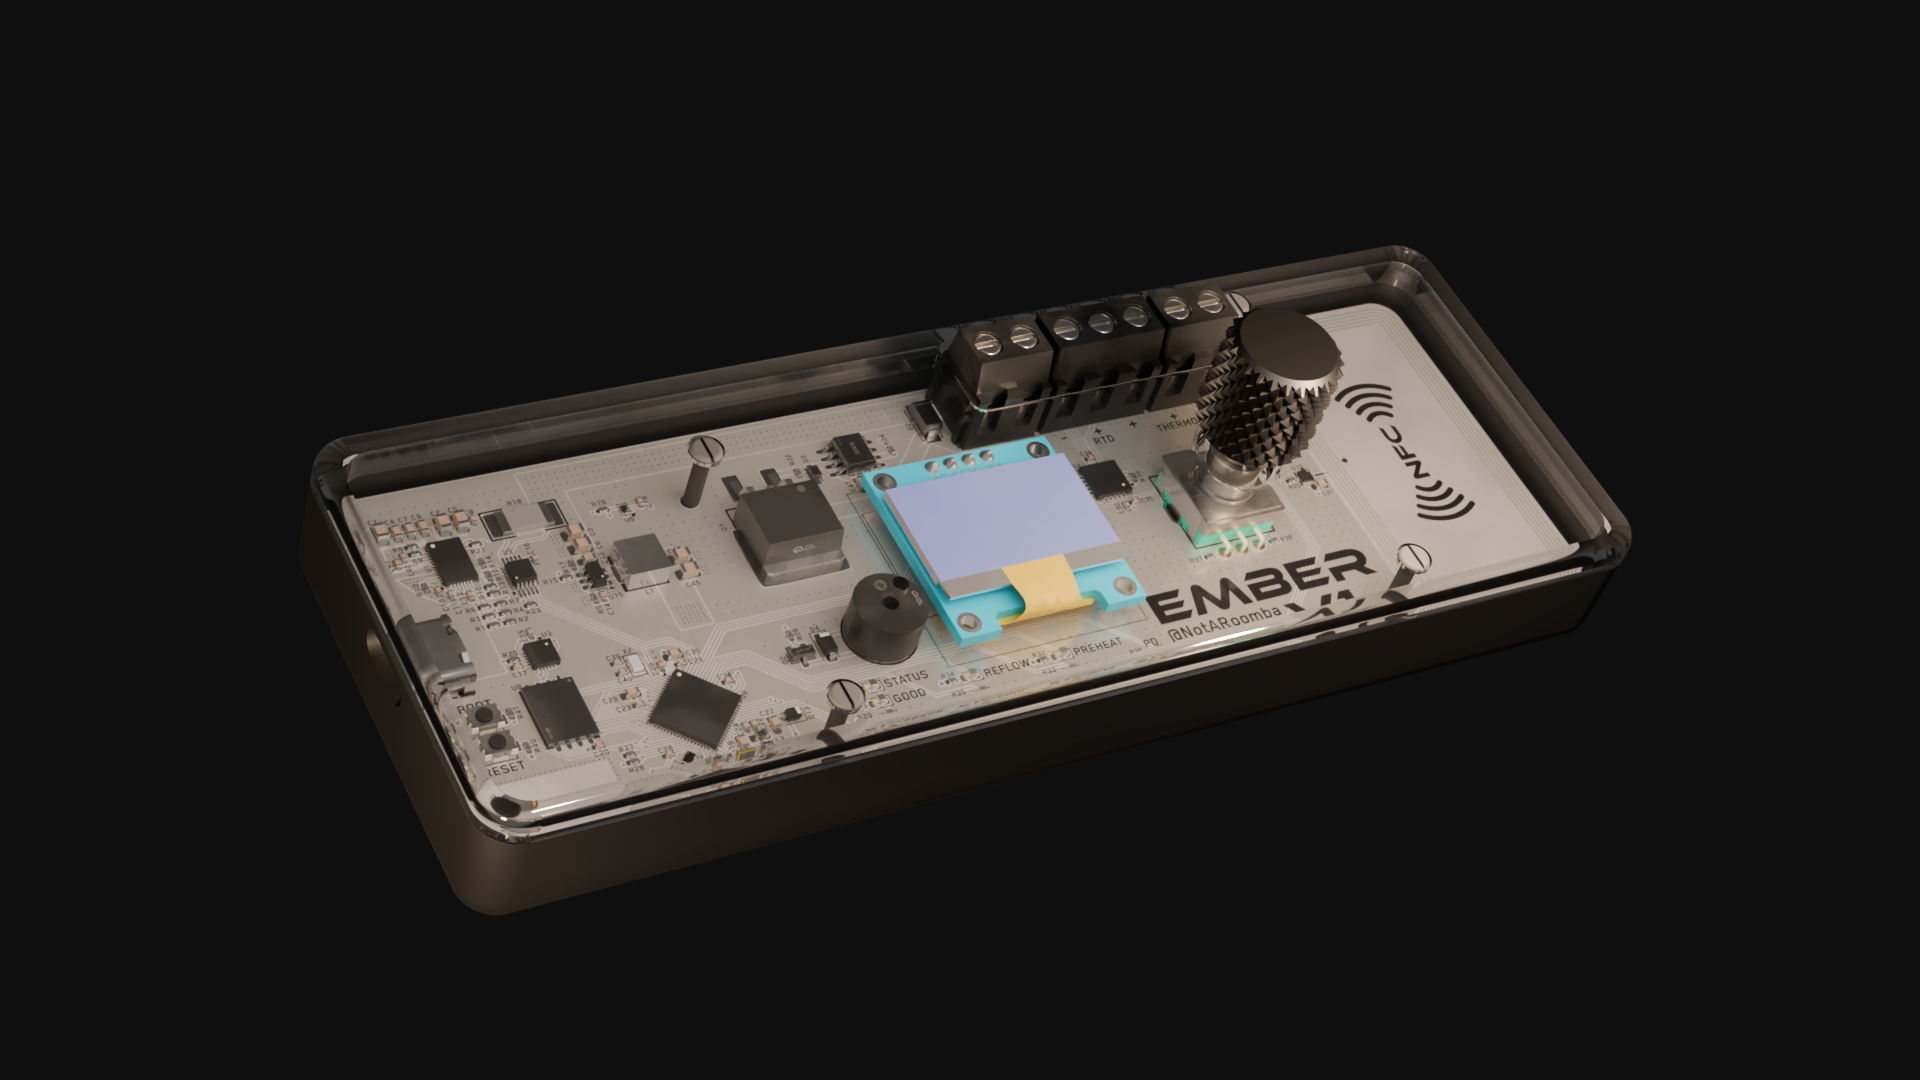
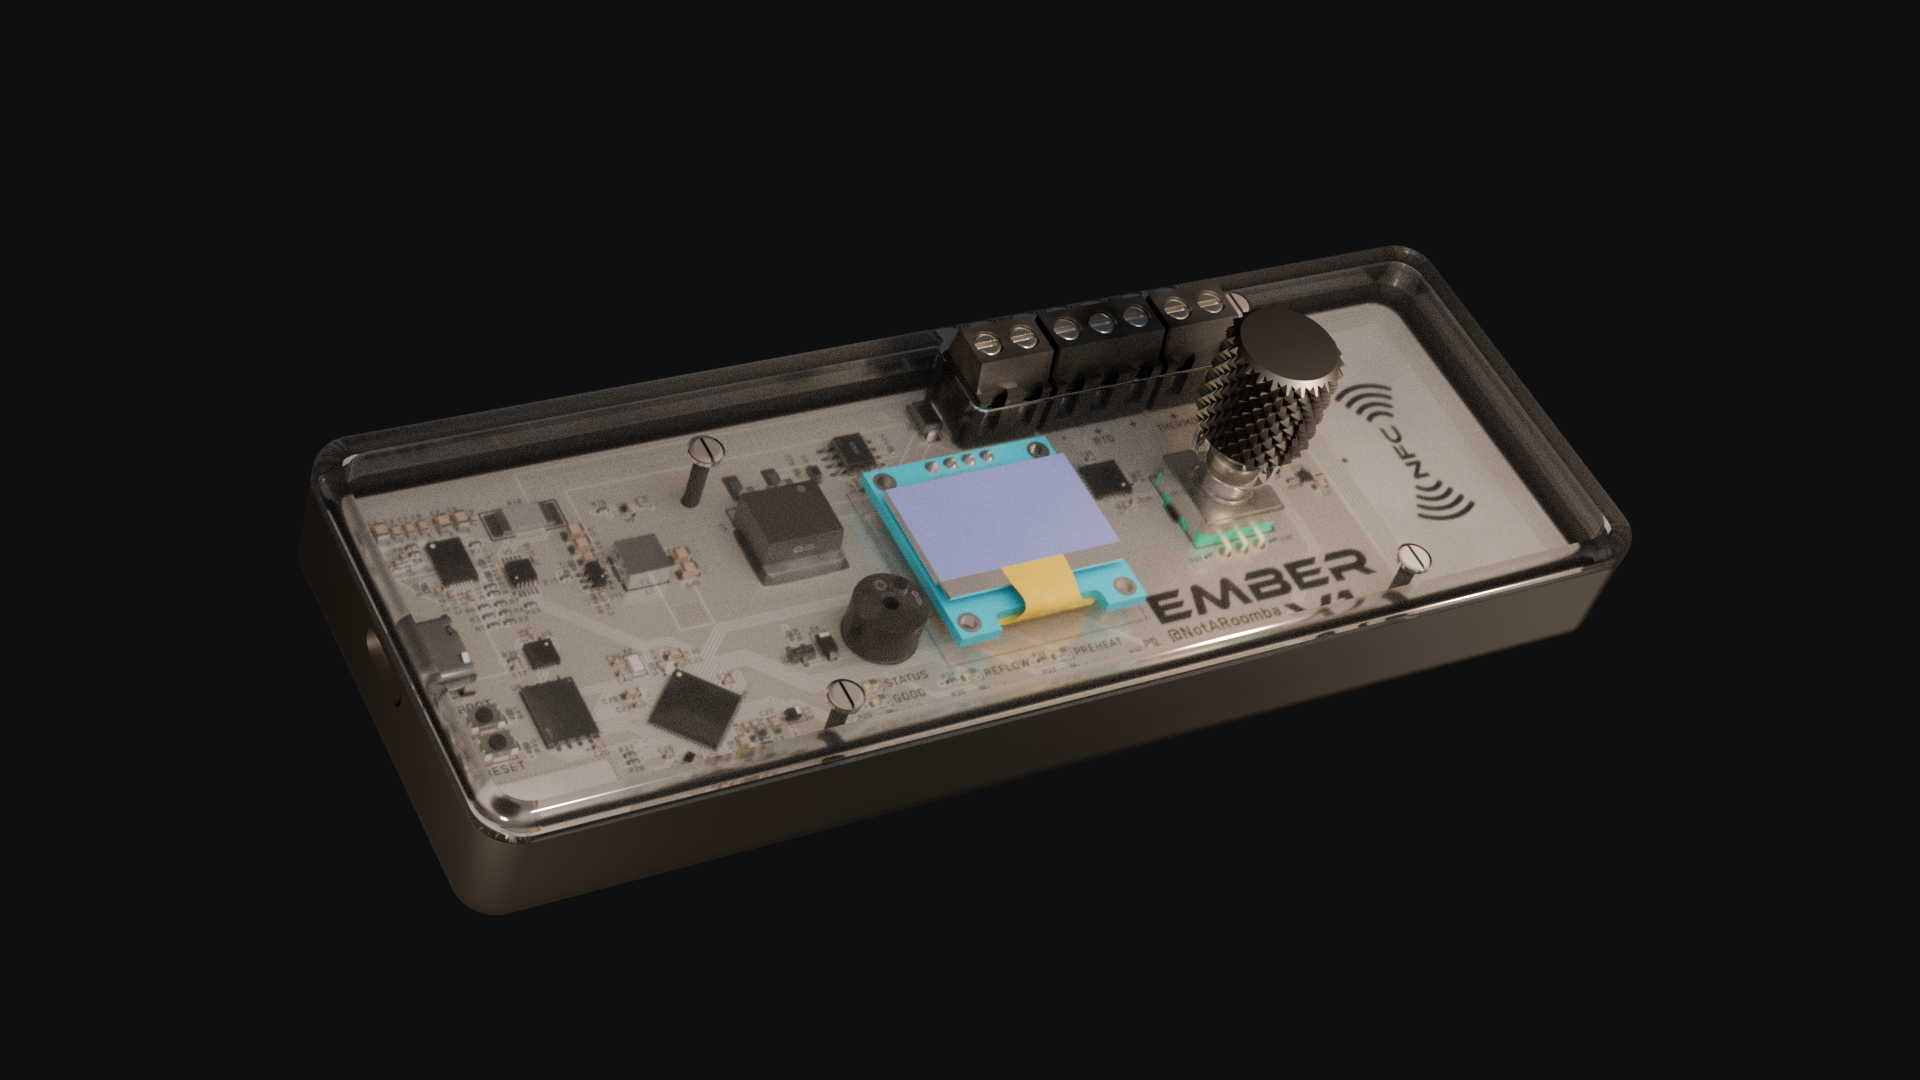
better render

diff --git a/README.md b/README.md
@@ -27,7 +27,7 @@ A high-performance USB-C powered reflow hotplate with Bluetooth connectivity and
   <a href="#license">License</a>
 </p>
 
-<img src="blender/render2.png" alt="Ember Render" width="800"/>
+<img src="blender/render.png" alt="Ember Render" width="800"/>
 
 ## Key Features
 
@@ -88,6 +88,7 @@ The flexible heater connects to the main PCB via screw terminals and sits on an 
 
 ## 3D Renders
 
+<img src="blender/render.png" alt="Render 1" width="800"/>
 <img src="blender/render1.png" alt="Render 1" width="800"/>
 <img src="blender/render2.png" alt="Render 2" width="800"/>
 
